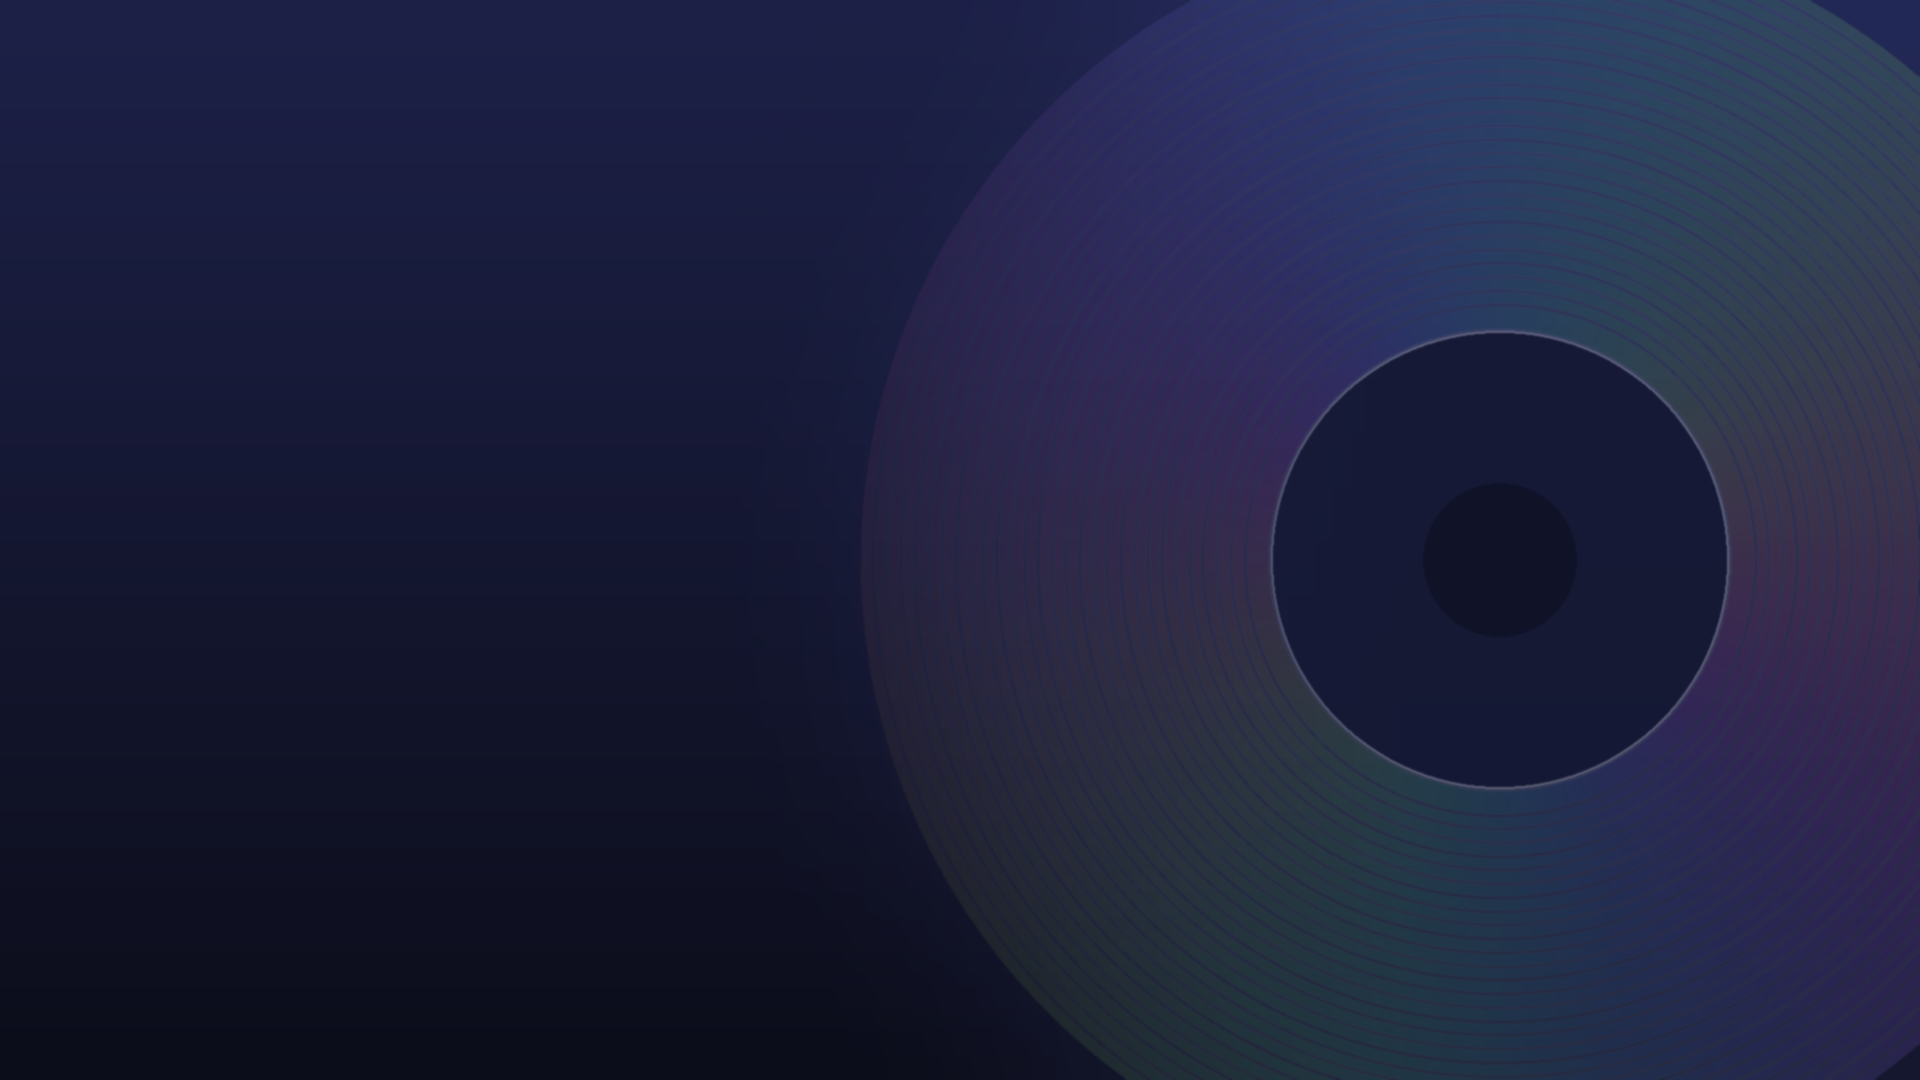
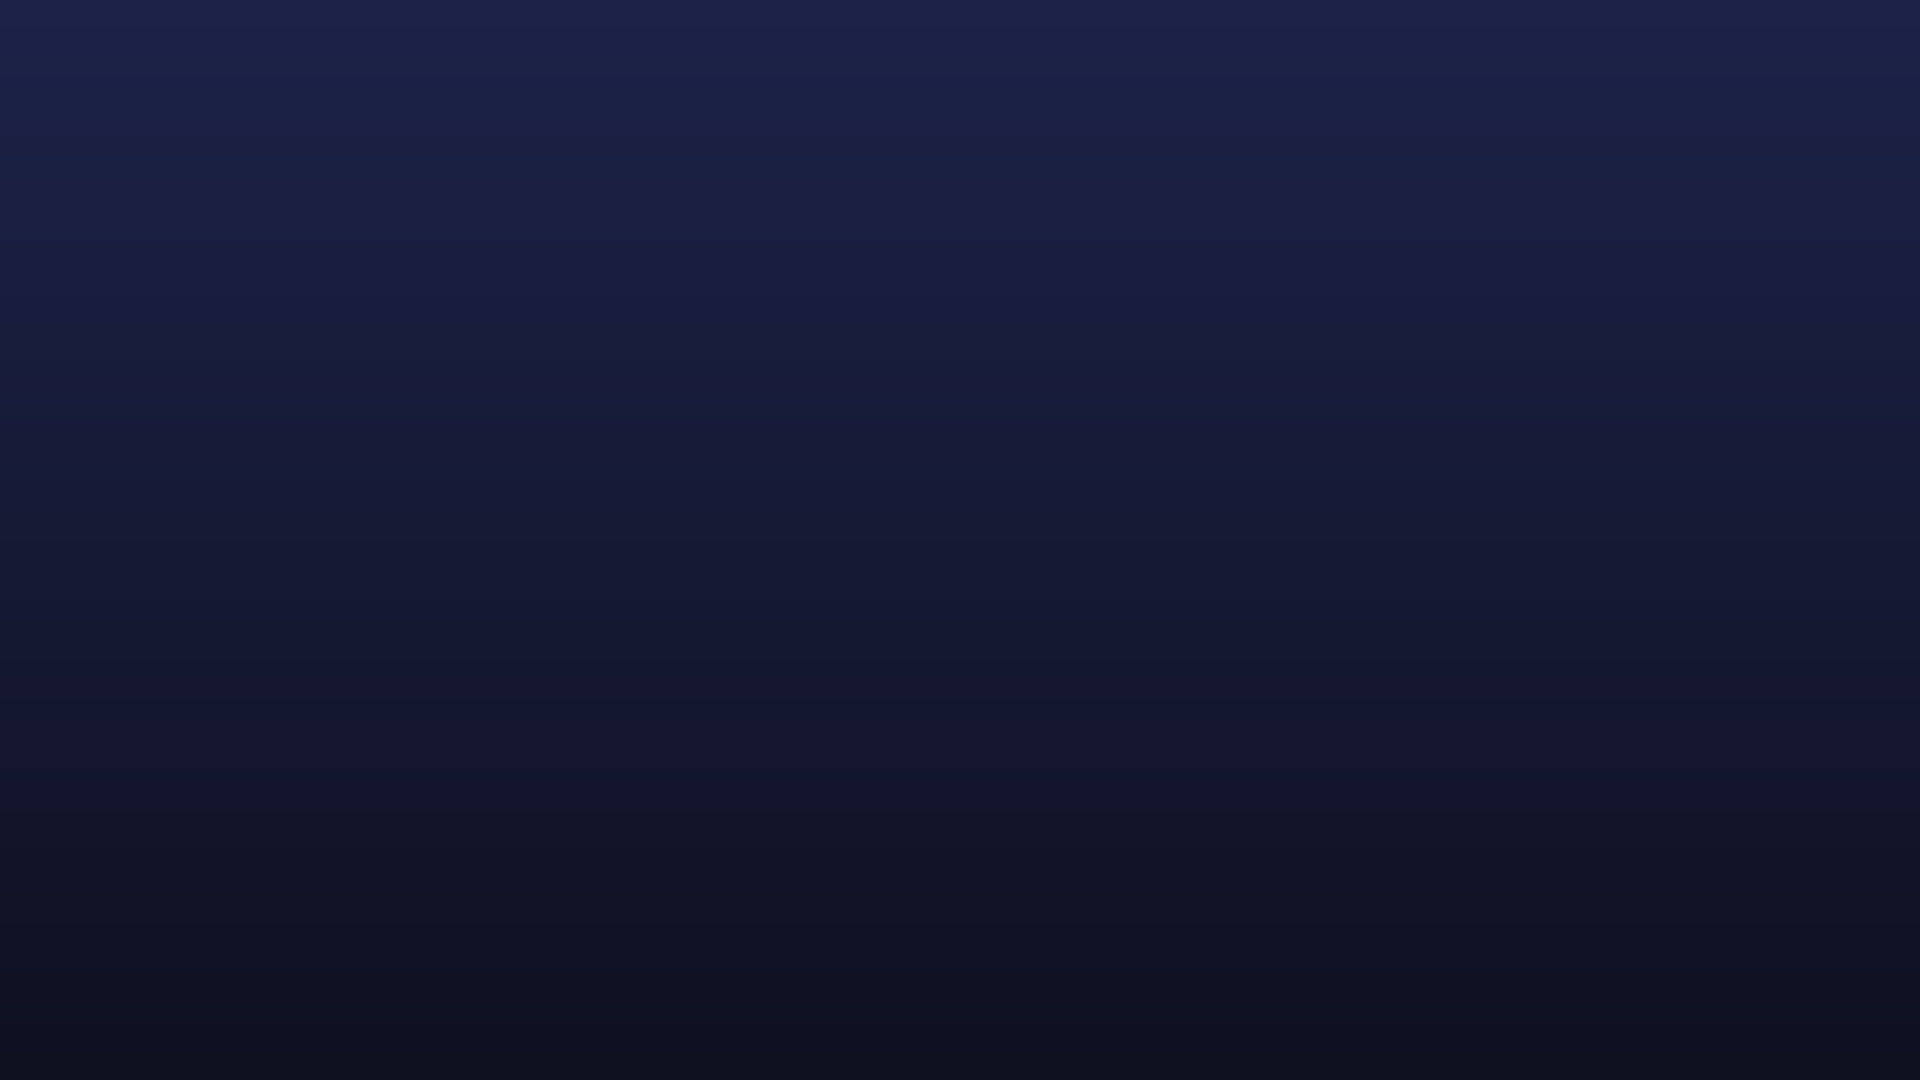
feat: the XMB background is the app's own navy gradient

diff --git a/tools/make_background.py b/tools/make_background.py
@@ -1,57 +1,26 @@
 #!/usr/bin/env python3
-"""Renders pkgfiles/PIC1.PNG (1920x1080), the background the XMB shows behind the app's icon.
+"""Renders pkgfiles/PIC1.PNG (1920x1080), the background the XMB shows behind the app's icon: the
+same deep navy gradient as the app's own screens (ui_init() in source/ui.cpp), so the XMB and the
+app look alike.
 
-Own artwork only: a dark navy gradient with a large CD whose rainbow sheen fades into the
-background on the right, and the tracks of a disc as thin rings. The XMB draws the title and the
-icon on top, so there is no text here.
-
-Usage: python3 tools/make_background.py pkgfiles/PIC1.PNG [variant]
+Usage: python3 tools/make_background.py pkgfiles/PIC1.PNG
 """
-import math
 import sys
 
-from PIL import Image, ImageDraw, ImageFilter
+from PIL import Image, ImageDraw
 
 W, H = 1920, 1080
-variant = sys.argv[2] if len(sys.argv) > 2 else "a"
 
-img = Image.new("RGB", (W, H))
-d = ImageDraw.Draw(img)
-for y in range(H):   # the app's own backdrop colours: deep navy at the top to near black
-    t = y / H
-    d.line([(0, y), (W, y)], fill=(int(29 - 17 * t), int(33 - 20 * t), int(72 - 46 * t)))
 
-# the disc: centre off to the right, partly outside the picture
-cx, cy, r = (1500, 560, 640) if variant == "a" else (1650, 1150, 900)
-disc = Image.new("RGBA", (W, H), (0, 0, 0, 0))
-dd = ImageDraw.Draw(disc)
-for a in range(0, 360, 1):   # rainbow sheen, faint
-    hue = (a * 2) % 360
-    c = tuple(int(150 + 70 * math.cos(math.radians(hue + k))) for k in (0, 120, 240))
-    dd.pieslice([cx - r, cy - r, cx + r, cy + r], a, a + 1.2, fill=c + (46,))
-for k in range(28):   # tracks
-    rr = r * (0.40 + 0.58 * k / 27)
-    dd.ellipse([cx - rr, cy - rr, cx + rr, cy + rr], outline=(255, 255, 255, 10 + (k % 3) * 4), width=2)
-hub = r * 0.36
-dd.ellipse([cx - hub, cy - hub, cx + hub, cy + hub], fill=(12, 14, 32, 230))
-dd.ellipse([cx - hub, cy - hub, cx + hub, cy + hub], outline=(255, 255, 255, 40), width=3)
-hole = r * 0.12
-dd.ellipse([cx - hole, cy - hole, cx + hole, cy + hole], fill=(8, 9, 20, 255))
-disc = disc.filter(ImageFilter.GaussianBlur(1.2))
+def render(path):
+    img = Image.new("RGB", (W, H))
+    d = ImageDraw.Draw(img)
+    for y in range(H):
+        t = y / H
+        d.line([(0, y), (W, y)], fill=(28 - int(14 * t), 34 - int(18 * t), 72 - int(40 * t)))
+    img.save(path, optimize=True)
 
-# fade the disc out towards the left, where the XMB lists the items
-mask = Image.new("L", (W, H))
-md = ImageDraw.Draw(mask)
-for x in range(W):
-    md.line([(x, 0), (x, H)], fill=int(255 * max(0.0, min(1.0, (x - 500) / 900))))
-alpha = Image.composite(disc.split()[3], Image.new("L", (W, H)), mask)
-disc.putalpha(alpha)
-img.paste(disc, (0, 0), disc)
 
-# a soft glow behind the disc
-glow = Image.new("RGBA", (W, H), (0, 0, 0, 0))
-ImageDraw.Draw(glow).ellipse([cx - r * 1.1, cy - r * 1.1, cx + r * 1.1, cy + r * 1.1], fill=(90, 110, 220, 26))
-img.paste(glow.filter(ImageFilter.GaussianBlur(120)), (0, 0), glow.filter(ImageFilter.GaussianBlur(120)))
-
-img.save(sys.argv[1], optimize=True)
-print("wrote", sys.argv[1], img.size)
+if __name__ == "__main__":
+    render(sys.argv[1])
+    print("wrote", sys.argv[1])

diff --git a/tools/make_icon.py b/tools/make_icon.py
@@ -39,8 +39,9 @@ def black_disc(img, cx, cy, r):
     layer.alpha_composite(light)
     dd = ImageDraw.Draw(layer)
     # the hub is black too: a darker edge shows where it is, and the hole
-    dd.ellipse([cx - r * 0.36, cy - r * 0.36, cx + r * 0.36, cy + r * 0.36], fill=(14, 14, 20, 255), outline=(4, 4, 6, 255), width=2 * S)
-    dd.ellipse([cx - r * 0.13, cy - r * 0.13, cx + r * 0.13, cy + r * 0.13], outline=(4, 4, 6, 255), width=2 * S)
+    edge = max(2, int(r * 0.036))   # as thick as in the icon, at any size
+    dd.ellipse([cx - r * 0.36, cy - r * 0.36, cx + r * 0.36, cy + r * 0.36], fill=(14, 14, 20, 255), outline=(4, 4, 6, 255), width=edge)
+    dd.ellipse([cx - r * 0.13, cy - r * 0.13, cx + r * 0.13, cy + r * 0.13], outline=(4, 4, 6, 255), width=edge)
     dd.ellipse([cx - r * 0.13, cy - r * 0.13, cx + r * 0.13, cy + r * 0.13], fill=(0, 0, 0, 0))
     img.paste(layer, (0, 0), layer)
 
